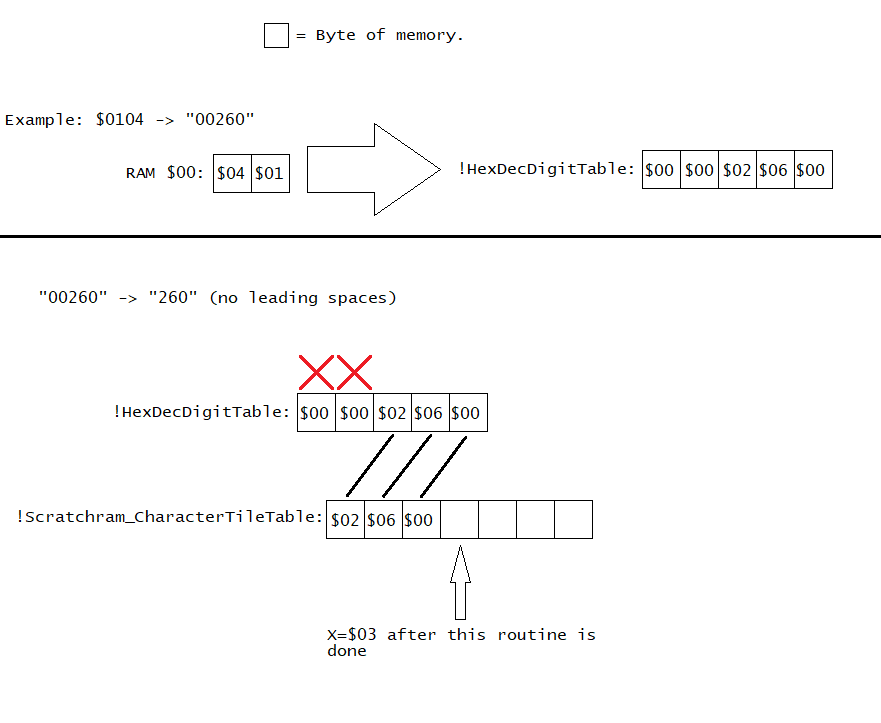
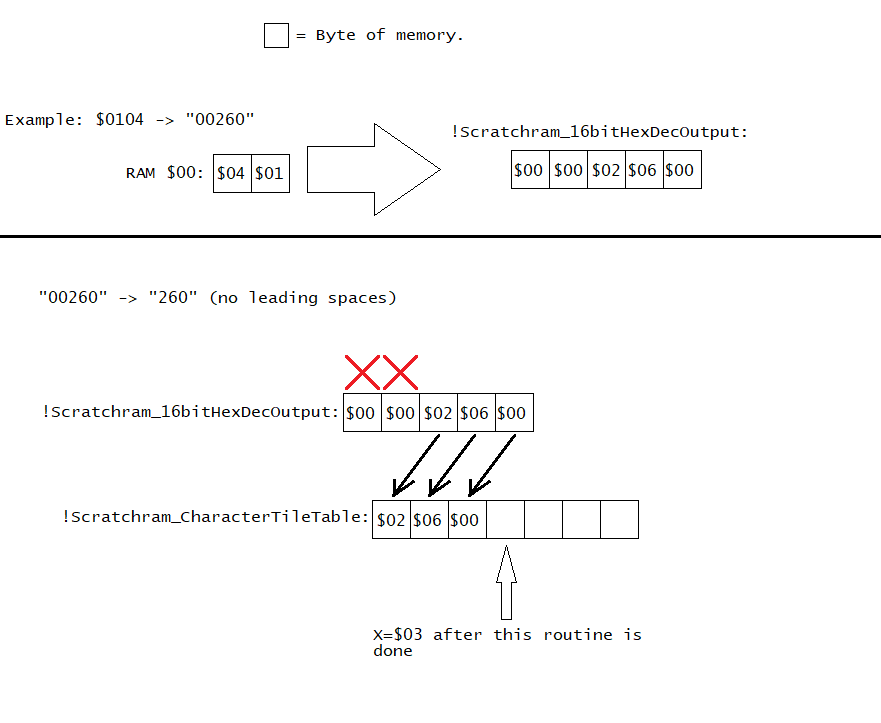
Add files via upload

Changed region(s): [[0.0306, 0.4869, 0.6129, 0.7303], [0.521, 0.1521, 0.9501, 0.2434], [0.3678, 0.852, 0.7049, 0.9129]]

diff --git a/HowToUseTheStatusBar.html b/HowToUseTheStatusBar.html
@@ -236,6 +236,9 @@ you need to edit to work with other status bar patches, set it to <kbd>$01</kbd>
 <p>This method assumes you are using uberasm tool to test your code to write to the status bar. The first thing you want to do is have all the ASM files in &ldquo;<kbd>StatusBarRoutines</kbd>&rdquo;
 inserted into uberasm tool's &ldquo;<kbd>library</kbd>&rdquo; folder, and have the entire folder &ldquo;<kbd>StatusBarRoutinesDefines</kbd>&rdquo; be in the same directory as the uberasm tool exe program is at.</p>
 
+<p>You also need to insert the graphic file from this provided <kbd>ExGFX</kbd> folder (<kbd>ExGFX80.bin</kbd>) if you are wanting to test out the code of displaying the &ldquo;/&rdquo; symbol when displaying
+2 numbers. It should be inserted as &ldquo;LG1&rdquo; on the layer 3 GFX.</p>
+
 <p>Before we start using the subroutines, we will demonstrate how to write tiles that change based on a given info <kbd>!RAMToMeasure</kbd>. It's very easy to write a tile that is different depending on
 a condition using branches:
 <table><tr><td><pre>!StatusBarPosition = $0EF9|!addr
@@ -371,14 +374,14 @@ incsrc "../StatusBarRoutinesDefines/Defines.asm"
 <p>What about if I wanted to convert 16-bit numbers (or if you have 3-4 digits and want to go above 255)? Well, good news for you, I've provided more than just 8-bit HexDec
 converters. Here is the code in question (up to 65535). Example, RAM $60 contains the value <kbd>$1234</kbd> (in memory, its <kbd>$34, $12</kbd>), I call the routine <kbd>SixteenBitHexDecDivision</kbd>
 after that, the digits of 4660 are stored. Note that this is ordered in decreasing significant decimal digits
-(<abbr title="!HexDecDigitTable+4">last</abbr> byte = 1s, second-last = 10s...):
+(<abbr title="!Scratchram_16bitHexDecOutput+4">last</abbr> byte = 1s, second-last = 10s...):
 <table>
 <tr><th>Define relative address</th><th>RAM address (normal/Sa-1)</th><th>Output value</th></tr>
-<tr><td><kbd>!HexDecDigitTable+0</kbd></td><td><kbd>$02/$04</kbd></td><td><kbd>$00</kbd> (represents &ldquo;0&rdquo; for 10000s place)</td></tr>
-<tr><td><kbd>!HexDecDigitTable+1</kbd></td><td><kbd>$03/$05</kbd></td><td><kbd>$04</kbd> (represents &ldquo;4&rdquo; for 1000s place)</td></tr>
-<tr><td><kbd>!HexDecDigitTable+2</kbd></td><td><kbd>$04/$06</kbd></td><td><kbd>$06</kbd> (represents &ldquo;6&rdquo; for 100s place)</td></tr>
-<tr><td><kbd>!HexDecDigitTable+3</kbd></td><td><kbd>$05/$07</kbd></td><td><kbd>$06</kbd> (represents &ldquo;6&rdquo; for 10s place)</td></tr>
-<tr><td><kbd>!HexDecDigitTable+4</kbd></td><td><kbd>$06/$08</kbd></td><td><kbd>$00</kbd> (represents &ldquo;0&rdquo; 1s place)</td></tr>
+<tr><td><kbd>!Scratchram_16bitHexDecOutput+0</kbd></td><td><kbd>$02/$04</kbd></td><td><kbd>$00</kbd> (represents &ldquo;0&rdquo; for 10000s place)</td></tr>
+<tr><td><kbd>!Scratchram_16bitHexDecOutput+1</kbd></td><td><kbd>$03/$05</kbd></td><td><kbd>$04</kbd> (represents &ldquo;4&rdquo; for 1000s place)</td></tr>
+<tr><td><kbd>!Scratchram_16bitHexDecOutput+2</kbd></td><td><kbd>$04/$06</kbd></td><td><kbd>$06</kbd> (represents &ldquo;6&rdquo; for 100s place)</td></tr>
+<tr><td><kbd>!Scratchram_16bitHexDecOutput+3</kbd></td><td><kbd>$05/$07</kbd></td><td><kbd>$06</kbd> (represents &ldquo;6&rdquo; for 10s place)</td></tr>
+<tr><td><kbd>!Scratchram_16bitHexDecOutput+4</kbd></td><td><kbd>$06/$08</kbd></td><td><kbd>$00</kbd> (represents &ldquo;0&rdquo; 1s place)</td></tr>
 </table><br>
 Here is the code in question for you to test:</p>
 <table><tr><td><pre>!RAMToMeasure = $60			;&gt;RAM address you what to show
@@ -387,20 +390,6 @@ Here is the code in question for you to test:</p>
 
 incsrc "../StatusBarRoutinesDefines/Defines.asm"
 
-	;Don't change this.
-		if defined("sa1") == 0
-			if read1($00FFD5) == $23
-				!sa1 = 1
-				sa1rom
-			else
-				!sa1 = 0
-			endif
-		endif
-
-		!HexDecDigitTable = $02
-		if !sa1 != 0
-			!HexDecDigitTable = $04
-		endif
 	main:
 	REP #$20
 	LDA !RAMToMeasure
@@ -412,7 +401,7 @@ incsrc "../StatusBarRoutinesDefines/Defines.asm"
 		if !StatusbarFormat == $01
 			LDX.b #(!NumberOfDigitsDisplayed-1)
 			-
-			LDA.b !HexDecDigitTable+$04-(!NumberOfDigitsDisplayed-1),x
+			LDA.b !Scratchram_16bitHexDecOutput+$04-(!NumberOfDigitsDisplayed-1),x
 			STA !StatusBarPosition,x
 			DEX
 			BPL -
@@ -420,7 +409,7 @@ incsrc "../StatusBarRoutinesDefines/Defines.asm"
 			LDX.b #((!NumberOfDigitsDisplayed-1)*2)
 			LDY.b #(!NumberOfDigitsDisplayed-1)
 			-
-			LDA.w (!HexDecDigitTable)+$04-(!NumberOfDigitsDisplayed-1)|!dp,y
+			LDA.w (!Scratchram_16bitHexDecOutput)+$04-(!NumberOfDigitsDisplayed-1)|!dp,y
 			STA !StatusBarPosition,x
 			DEY
 			DEX #2
@@ -559,16 +548,174 @@ incsrc "../StatusBarRoutinesDefines/Defines.asm"
 	</ul>
 	</p>
 <h3 id="AlignedDigits"><a href="#AlignedDigitsBack">^</a>Remove Leading zeros, with left/right-aligned digits</h3>
-<p>Perhaps, the above method have a downside, leading zeros are actually replaced with leading spaces, giving a <i>right-aligned</i> look. If you are designing a HUD
+<p>Perhaps, in actuality, leading zeros are replaced with leading spaces, giving a <i>right-aligned</i> look. If you are designing a HUD
 with an icon (or a &ldquo;label&rdquo;) to the left of the number when the number have a small number of digits, you'll have a space in between the icon and the digits, which looks ugly, especially if the number
-have a huge number of digits it can display up to. For example, a 5-digit number:<br>
+have a huge number of digits it can display up to. Or, if you wanted the number display to look more compact. For example, a 5-digit, 16-bit number:<br>
 <img src="Readme_Files/LeadingSpaces.png"><br><br>
-
-The first routine, <kbd>SupressLeadingZeros</kbd> works like this: Search all the digits in <kbd>!HexDecDigitTable</kbd>, and copy all the digits on and after the first (leftmost) digit and paste them into
-<kbd>!Scratchram_CharacterTileTable</kbd>. You've now have a left-aligned &ldquo;string&rdquo; table stored. After this routine, The X register now contains a number incremented for every character being written.
+The first routine, <kbd>SupressLeadingZeros</kbd> works like this: Search all the digits in <kbd>!Scratchram_16bitHexDecOutput</kbd>, and copy all the non-leading zero digits on and after the first (leftmost) digit and paste them into
+<kbd>!Scratchram_CharacterTileTable</kbd>. You've now have a &ldquo;compressed string&rdquo; table stored. After this routine, The X register now contains a number incremented for every character being written.
 See picture below:<br>
 <img src="Readme_Files/NoLeadingZeroesLeftAligned.png">
 </p>
+<p>To use the routine, here is the code template:
+<table><tr><td><pre>!RAMToMeasure = $60			;>RAM address you what to show
+!StatusBarPosition = $0EF9|!addr	;>Where to write on the status bar
+!StatusbarFormat = $01			;>$01 = [TTTTTTTT, TTTTTTTT,...], $02 = [TTTTTTTT, YXPCCCTT, TTTTTTTT, YXPCCCTT...]
+!NumberOfDigitsDisplayed = 5		;>How many digits, enter 1-5 (pointless if you enter less than 3).
+
+incsrc "../StatusBarRoutinesDefines/Defines.asm"
+
+	main:
+	.NumberDisplayTest
+	;Clear the tiles. To prevent leftover "ghost" tiles that should've
+	;disappear when the number of digits decreases (so when "10" becomes "9",
+	;won't display "90").
+		LDX.b #(!NumberOfDigitsDisplayed-1)*!StatusbarFormat
+		-
+		LDA #$FC
+		STA !StatusBarPosition,x
+		DEX #!StatusbarFormat
+		BPL -
+	;Number to string.
+		;Process HexDec
+			REP #$20					;\Convert a given number to decimal digits.
+			LDA !RAMToMeasure				;|
+			STA $00						;|
+			SEP #$20					;|
+			JSL HexDec_SixteenBitHexDecDivision		;/
+		;Remove leading zeroes and have it as a character table
+			LDX #$00					;>Start at character position 0.
+			JSL HexDec_SupressLeadingZeros			;>Write the digits (without leading zeroes) starting at position 0.
+		;Prevent writing too much characters.
+			CPX.b #!NumberOfDigitsDisplayed+1		;\Failsafe to avoid writing more characters than intended would write onto tiles
+			BCS ..TooMuchDigits				;/not being cleared from the previous code.
+	;Write to status bar
+		if !StatusbarFormat == $01
+			DEX					;>Start on the last character, not on the first unwritten character.
+			-
+			LDA !Scratchram_CharacterTileTable,x	;\Write characters
+			STA !StatusBarPosition,x		;/
+			DEX					;\Repeat until all characters written.
+			BPL -					;/
+		else
+			DEX					;>Start on the last character, not on the first unwritten character.
+			TXY					;>Transfer to Y (we have 2 indexing for the table and the tiles on status bar)
+			TXA					;\Double X because we must index 2 bytes over due to [TTTTTTTT, YXPCCCTT, TTTTTTTT, YXPCCCTT...]
+			ASL					;|
+			TAX					;/
+			-
+			PHX					;\STA $xxxxxx,y does not exist, so I have to move it to X since
+			TYX					;|STA $xxxxxx,x do exist.
+			LDA !Scratchram_CharacterTileTable,x	;|
+			PLX					;/
+			STA !StatusBarPosition,x		;>Write the character to status bar
+			DEY					;\Repeat until all characters written.
+			DEX #2					;|
+			BPL -					;/
+		endif
+	..TooMuchDigits
+	RTL</pre></td></tr></table><br>
+But what if I wanted to display 2 numbers &ldquo;X/Y&rdquo; (for example: &ldquo;260/300&rdquo;)? Well, you just have the codes be (loosely) called twice under &ldquo;<kbd>Number to string</kbd>&rdquo; but like this instead:
+<ol>
+	<li>
+		<p>The number of tiles to clear uses <kbd>LDX.b #(((!NumberOfDigitsDisplayed*2)+1)-1)*!StatusbarFormat</kbd>, 2 numbers, plus 1 (because of the &ldquo;/&rdquo; symbol), minus 1 (because indexing ranges from 0 to
+		<kbd>NumberOfItems-1</kbd>), its then multiplied by 1 or 2 to adjust the status bar data formatting.</p>
+	</li>
+	<li>
+		<p>You have codes <kbd>Process HexDec</kbd> and <kbd>Remove leading zeroes and have it as a character table</kbd> be the same for the first number (using previous example, the 260). We will not use the failsafe
+		of too many digits until after we write the second number.</p>
+	</li>
+	<li>
+		<p>After writing the first number, you then write a character that will be in between the 2 numbers (in this case, the &ldquo;/&rdquo; symbol), after this, you <kbd>INX</kbd> so you will place the second
+		number after it.</p>
+	</li>
+	<li>
+		<p>You do the same thing as the first number, but use <kbd>PHX</kbd>, then the code that uses HexDec, without <kbd>LDX #$00</kbd>, then <kbd>PLX</kbd>, because X needs to continue counting the characters, and that HexDec routine modifies
+		this to handle each of the 5 digits. After this, then you DO need that failsafe, using <kbd>CPX.b #(((!NumberOfDigitsDisplayed*2)+1)+1)</kbd>, 2 numbers, plus 1 for the &ldquo;/&rdquo; symbol, plus 1 AGAIN because BCS branches if
+		<kbd>X &ge; ComparedValue</kbd></p>
+	</li>
+</ol>
+Here is an example using 2 16-bit numbers:
+<table><tr><td><pre>
+!RAMToMeasure = $60			;>RAM address you what to show
+!RAMToMeasure2 = $62			;>Same as above
+!StatusBarPosition = $0EF9|!addr	;>Where to write on the status bar
+!StatusbarFormat = $01			;>$01 = [TTTTTTTT, TTTTTTTT,...], $02 = [TTTTTTTT, YXPCCCTT, TTTTTTTT, YXPCCCTT...]
+!NumberOfDigitsDisplayed = 5		;>How many digits, enter 1-5 (pointless if you enter less than 3).
+!SlashCharacterTileNumb = $29		;>Tile number for the "/" symbol.
+
+incsrc "../StatusBarRoutinesDefines/Defines.asm"
+
+	main:
+	.NumberDisplayTest
+	;Clear the tiles. To prevent leftover "ghost" tiles that should've
+	;disappear when the number of digits decreases (so when "10" becomes "9",
+	;won't display "90").
+		LDX.b #(((!NumberOfDigitsDisplayed*2)+1)-1)*!StatusbarFormat	;>2 NumberOfDigitsDisplayed due to 2 numbers displayed, plus 1 because of the "/" symbol.
+		-
+		LDA #$FC
+		STA !StatusBarPosition,x
+		DEX #!StatusbarFormat
+		BPL -
+	;First number
+		;Process HexDec
+			REP #$20					;\Convert a given number to decimal digits.
+			LDA !RAMToMeasure				;|
+			STA $00						;|
+			SEP #$20					;|
+			JSL HexDec_SixteenBitHexDecDivision		;/
+		;Remove leading zeroes and have it as a character table
+			LDX #$00					;>Start at character position 0.
+			JSL HexDec_SupressLeadingZeros			;>Write the digits (without leading zeroes) starting at position 0.
+	;"/" symbol
+			LDA #!SlashCharacterTileNumb			;\Slash symbol.
+			STA !Scratchram_CharacterTileTable,x		;/
+			INX						;>Next character position.
+	;Second number
+		;Process HexDec
+			PHX						;>Push X because it gets modified by the HexDec routine.
+			REP #$20					;\Convert a given number to decimal digits.
+			LDA !RAMToMeasure2				;|
+			STA $00						;|
+			SEP #$20					;|
+			JSL HexDec_SixteenBitHexDecDivision		;/
+			PLX						;>Restore.
+		;Remove leading zeroes and have it as a character table
+			JSL HexDec_SupressLeadingZeros			;>Write the digits (without leading zeroes) starting at position 0.
+		;Prevent writing too much characters.
+			CPX.b #(((!NumberOfDigitsDisplayed*2)+1)+1)	;\Failsafe to avoid writing more characters than intended would write onto tiles
+			BCS ..TooMuchDigits				;/not being cleared from the previous code.
+	;Write to status bar
+		if !StatusbarFormat == $01
+			DEX					;>Start on the last character, not on the first unwritten character.
+			-
+			LDA !Scratchram_CharacterTileTable,x	;\Write characters
+			STA !StatusBarPosition,x		;/
+			DEX					;\Repeat until all characters written.
+			BPL -					;/
+		else
+			DEX					;>Start on the last character, not on the first unwritten character.
+			TXY					;>Transfer to Y (we have 2 indexing for the table and the tiles on status bar)
+			TXA					;\Double X because we must index 2 bytes over due to [TTTTTTTT, YXPCCCTT, TTTTTTTT, YXPCCCTT...]
+			ASL					;|
+			TAX					;/
+			-
+			PHX					;\STA $xxxxxx,y does not exist, so I have to move it to X since
+			TYX					;|STA $xxxxxx,x do exist.
+			LDA !Scratchram_CharacterTileTable,x	;|
+			PLX					;/
+			STA !StatusBarPosition,x		;>Write the character to status bar
+			DEY					;\Repeat until all characters written.
+			DEX #2					;|
+			BPL -					;/
+		endif
+	..TooMuchDigits
+	RTL</pre></td></tr></table><br>
+Again, use the debugger if you wanted to test the values using the memory editor and editing the RAM address defined by <kbd>!RAMToMeasure</kbd>, and this time, also <kbd>!RAMToMeasure2</kbd>.</p>
+
+<p>But what about right-aligned number display? <abbr title="It's already explained using any hexdec routines, then anything under &ldquo;Removing leading zeroes&rdquo; through the leading spaces method">Don't
+ask if you wanted to display a single number</abbr></p>
+
 <h2 id="RepeatedSymbol"><a href="#RepeatedSymbolBack">^</a>Displaying repeated symbols n times</h2>
 <p>You probably have seen something like this in most video games that represents individual health using repeated collection of icons with none, some, or all of them &ldquo;filled&rdquo; and/or empty, for example
 4/5 filled shows 5 symbols with 4 of them filled:<br>
